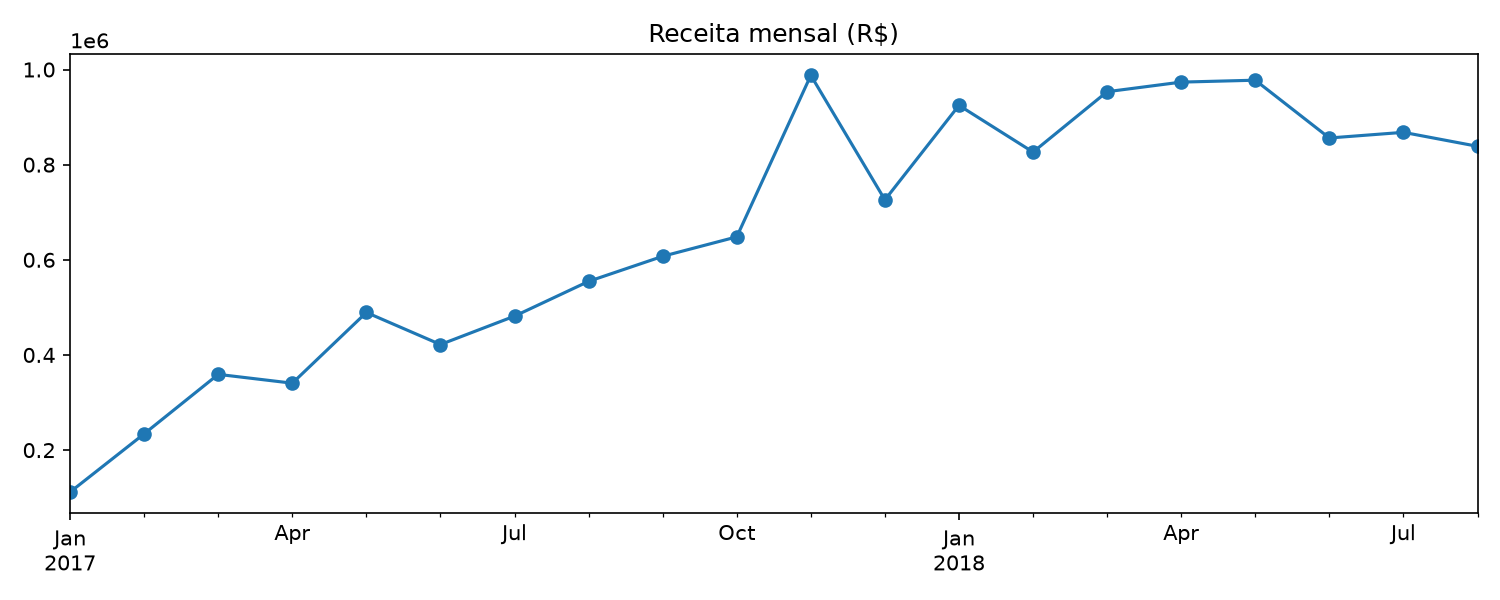
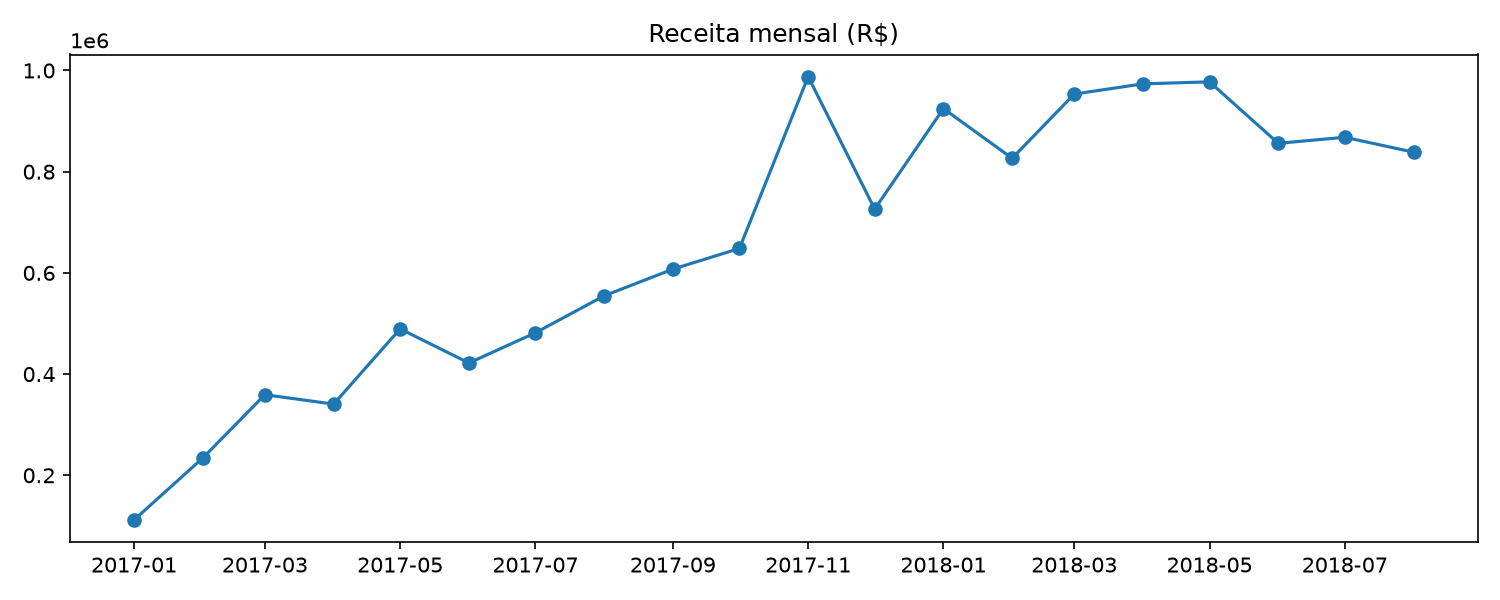
Corrige graficos

diff --git a/analise_olist.py b/analise_olist.py
@@ -11,6 +11,9 @@
 # %% Imports
 from pathlib import Path
 
+import matplotlib
+
+matplotlib.use("Agg")  # salva os gráficos em arquivo, sem abrir janelas
 import matplotlib.pyplot as plt
 import pandas as pd
 
@@ -57,38 +60,43 @@ df = (
 df["receita"] = df["price"]  # sem frete
 df["mes"] = df["order_purchase_timestamp"].dt.to_period("M").dt.to_timestamp()
 df["categoria"] = df["product_category_name_english"].fillna("outros")
+receita_total = df["receita"].sum()
 
 # %% 4. Receita e pedidos por mês
 mensal = df.groupby("mes").agg(
     receita=("receita", "sum"), pedidos=("order_id", "nunique")
 )
-ax = mensal["receita"].plot(figsize=(10, 4), marker="o", title="Receita mensal (R$)")
-ax.set_xlabel("")
-plt.tight_layout()
-plt.savefig(IMG / "receita_mensal.png", dpi=150)
-plt.show()
+
+fig, ax = plt.subplots(figsize=(10, 4))
+ax.plot(mensal.index, mensal["receita"], marker="o")
+ax.set_title("Receita mensal (R$)")
+fig.tight_layout()
+fig.savefig(IMG / "receita_mensal.png", dpi=150)
+plt.close(fig)
 
 # %% 5. Top 10 categorias por receita
-top_cat = (
-    df.groupby("categoria")["receita"].sum().sort_values(ascending=False).head(10)
-)
-ax = top_cat.sort_values().plot(
-    kind="barh", figsize=(8, 5), title="Top 10 categorias por receita (R$)"
-)
+top_cat = df.groupby("categoria")["receita"].sum().sort_values(ascending=False).head(10)
+
+fig, ax = plt.subplots(figsize=(8, 5))
+top_cat.sort_values().plot(kind="barh", ax=ax)
+ax.set_title("Top 10 categorias por receita (R$)")
 ax.set_ylabel("")
-plt.tight_layout()
-plt.savefig(IMG / "top_categorias.png", dpi=150)
-plt.show()
+fig.tight_layout()
+fig.savefig(IMG / "top_categorias.png", dpi=150)
+plt.close(fig)
 
 # %% 6. Receita por estado
 por_estado = (
     df.groupby("customer_state")["receita"].sum().sort_values(ascending=False).head(10)
 )
-ax = por_estado.plot(kind="bar", figsize=(8, 4), title="Top 10 estados por receita (R$)")
+
+fig, ax = plt.subplots(figsize=(8, 4))
+por_estado.plot(kind="bar", ax=ax)
+ax.set_title("Top 10 estados por receita (R$)")
 ax.set_xlabel("")
-plt.tight_layout()
-plt.savefig(IMG / "receita_por_estado.png", dpi=150)
-plt.show()
+fig.tight_layout()
+fig.savefig(IMG / "receita_por_estado.png", dpi=150)
+plt.close(fig)
 
 # %% 7. Ticket médio (receita por pedido)
 ticket_medio = df.groupby("order_id")["receita"].sum().mean()
@@ -103,17 +111,28 @@ nota = entregas.groupby("atrasou")["review_score"].mean()
 print(nota)
 print(f"% de pedidos atrasados: {entregas['atrasou'].mean():.1%}")
 
-ax = nota.rename({False: "No prazo", True: "Atrasou"}).plot(
-    kind="bar", figsize=(5, 4), title="Nota média por entrega"
-)
+fig, ax = plt.subplots(figsize=(5, 4))
+nota.rename({False: "No prazo", True: "Atrasou"}).plot(kind="bar", ax=ax)
+ax.set_title("Nota média por entrega")
 ax.set_xlabel("")
-plt.xticks(rotation=0)
-plt.tight_layout()
-plt.savefig(IMG / "nota_por_atraso.png", dpi=150)
-plt.show()
+ax.tick_params(axis="x", rotation=0)
+fig.tight_layout()
+fig.savefig(IMG / "nota_por_atraso.png", dpi=150)
+plt.close(fig)
 
-# %% 9. Conclusões (preencha com os SEUS números, depois de rodar)
-# - Receita cresceu X% entre jan/2017 e ago/2018
-# - As 3 categorias que mais vendem são: ...
-# - SP concentra X% da receita
-# - Pedidos atrasados têm nota média X vs Y dos entregues no prazo
+# %% 9. Números extras para o README
+pct_sp = por_estado.iloc[0] / receita_total
+print(f"Estado líder: {por_estado.index[0]} com {pct_sp:.1%} da receita")
+
+print("Participação das 3 maiores categorias:")
+print((top_cat.head(3) / receita_total).round(3))
+print(f"As 3 juntas: {top_cat.head(3).sum() / receita_total:.1%}")
+
+# Crescimento ano contra ano, comparando os mesmos meses (jan-ago)
+r2017 = mensal.loc["2017-01":"2017-08", "receita"].sum()
+r2018 = mensal.loc["2018-01":"2018-08", "receita"].sum()
+print(f"Jan-Ago 2017: R$ {r2017:,.0f}")
+print(f"Jan-Ago 2018: R$ {r2018:,.0f}")
+print(f"Crescimento: {r2018 / r2017 - 1:.0%}")
+
+print("Gráficos salvos na pasta images/")
